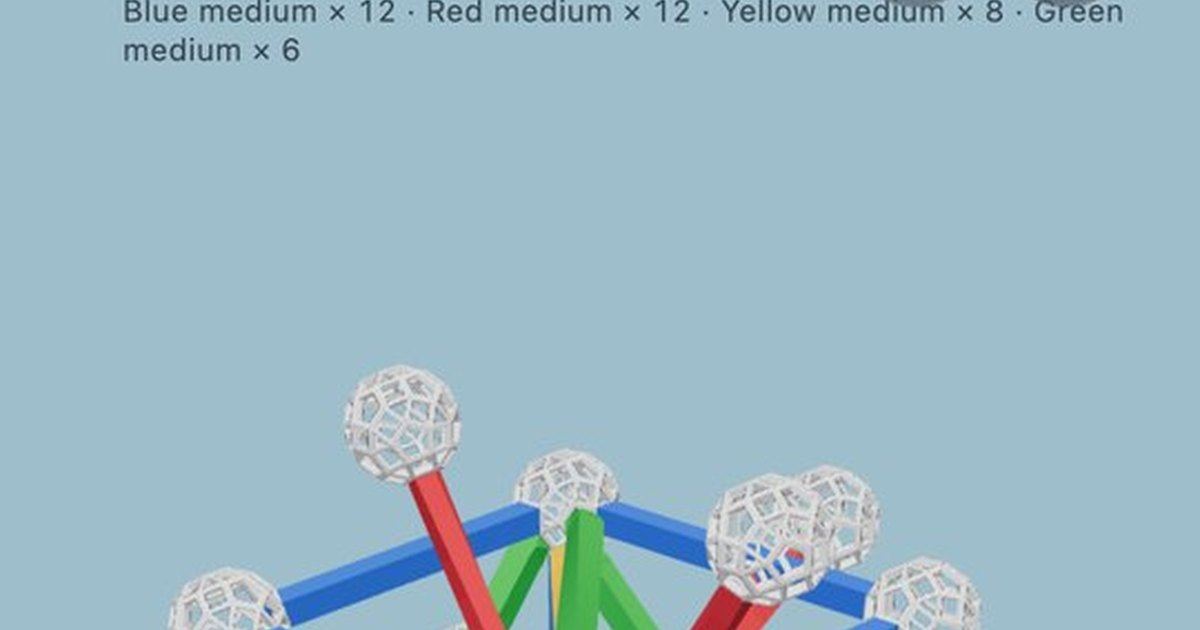
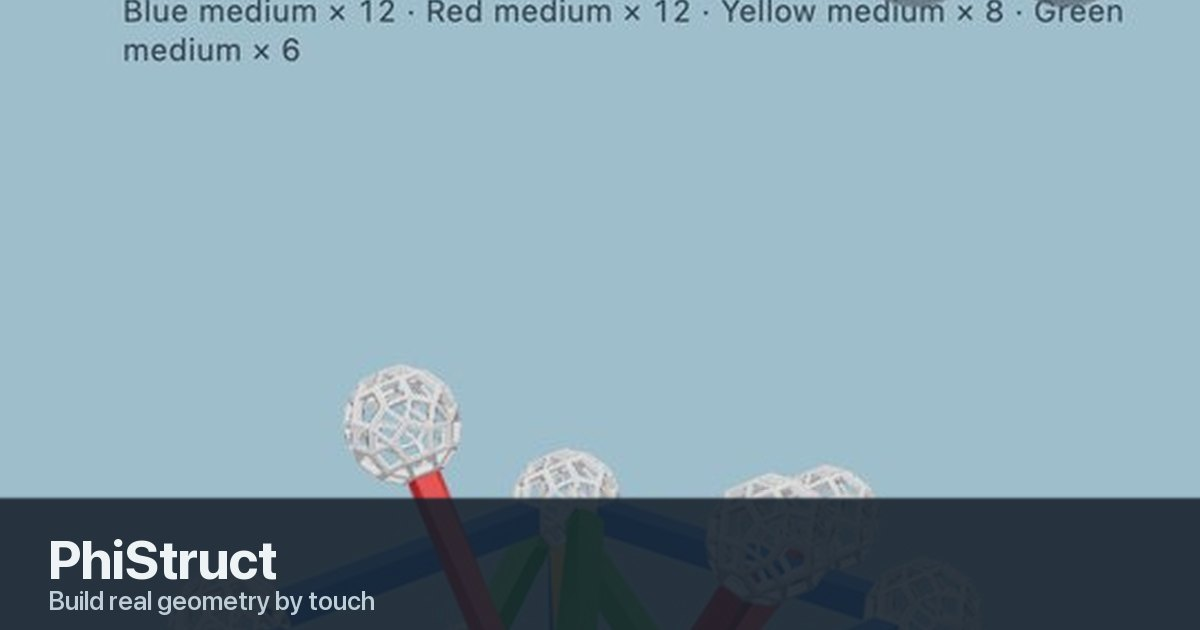
Add Umami hook, bake OG wordmark, and split app vs site privacy.
Leave the GitHub Pages host as-is until phistruct.app DNS exists; do not ship a CNAME yet.

Changed region(s): [[0.0, 0.7841, 1.0, 1.0]]

diff --git a/index.html b/index.html
@@ -4,7 +4,7 @@
 <meta charset="utf-8" />
 <meta name="viewport" content="width=device-width, initial-scale=1" />
 <title>PhiStruct — Build 3D Polyhedra by Touch on iPhone</title>
-<meta name="description" content="Tap a hole, place a strut. Collision-proof ball-and-strut polyhedra, 134 guided builds, AR at room scale, PNG/GLB/STL/vZome export. Offline, one-time purchase, no account." />
+<meta name="description" content="Tap a hole, place a strut. Collision-proof polyhedra, 134 guided builds, AR at room scale. Offline, one-time purchase, no account." />
 <meta name="theme-color" content="#9fbecb" />
 <link rel="canonical" href="https://sirouni.github.io/phistruct-site/" />
 
@@ -21,13 +21,17 @@
 <meta property="og:description" content="Collision-proof ball-and-strut polyhedra on iPhone. 134 guided builds, AR at room scale, STL export, fully offline." />
 <meta property="og:type" content="website" />
 <meta property="og:url" content="https://sirouni.github.io/phistruct-site/" />
-<meta property="og:image" content="https://sirouni.github.io/phistruct-site/og-image.jpg" />
+<meta property="og:image" content="https://sirouni.github.io/phistruct-site/og-image.jpg?v=2" />
 <meta property="og:image:width" content="1200" />
 <meta property="og:image:height" content="630" />
+<meta property="og:image:type" content="image/jpeg" />
+<meta property="og:image:alt" content="PhiStruct — build real geometry by touch. A ball-and-strut polyhedron with a parts list." />
 <meta name="twitter:card" content="summary_large_image" />
 <meta name="twitter:title" content="PhiStruct — Build real geometry by touch" />
 <meta name="twitter:description" content="Collision-proof ball-and-strut polyhedra on iPhone. 134 guided builds, AR at room scale, STL export, fully offline." />
-<meta name="twitter:image" content="https://sirouni.github.io/phistruct-site/og-image.jpg" />
+<meta name="twitter:image" content="https://sirouni.github.io/phistruct-site/og-image.jpg?v=2" />
+<meta name="twitter:image:alt" content="PhiStruct — build real geometry by touch. A ball-and-strut polyhedron with a parts list." />
+<script src="analytics.js" defer></script>
 
 <link rel="preload" as="image" href="screenshots-webp/03-ar.webp?v=2" imagesrcset="screenshots-webp/03-ar.webp?v=2" type="image/webp" />
 <link rel="stylesheet" href="style.css?v=8" />
@@ -43,7 +47,7 @@
       "applicationCategory": "UtilitiesApplication",
       "description": "Touch-first ball-and-strut geometry builder. Collision-proof, 134 guided polyhedra, AR at room scale, export PNG/GLB/STL/vZome. Fully offline, no account, one-time purchase.",
       "url": "https://sirouni.github.io/phistruct-site/",
-      "image": "https://sirouni.github.io/phistruct-site/og-image.jpg",
+      "image": "https://sirouni.github.io/phistruct-site/og-image.jpg?v=2",
       "offers": {
         "@type": "Offer",
         "price": "14.99",
@@ -101,7 +105,7 @@
   <nav class="nav">
     <a href="#how">How it works</a>
     <a href="#shots">Screens</a>
-    <a href="https://apps.apple.com/app/id6794185906" rel="noopener" class="nav-cta">App Store</a>
+    <a href="https://apps.apple.com/app/id6794185906" rel="noopener" class="nav-cta" data-umami-event="app-store" data-umami-event-placement="nav">App Store</a>
   </nav>
 </header>
 
@@ -123,7 +127,7 @@
         <li>One-time purchase</li>
       </ul>
       <p class="cta-row">
-        <a class="store-btn" href="https://apps.apple.com/app/id6794185906" rel="noopener">
+        <a class="store-btn" href="https://apps.apple.com/app/id6794185906" rel="noopener" data-umami-event="app-store" data-umami-event-placement="hero">
           <span class="store-btn-kicker">Download on the</span>
           <span class="store-btn-label">App Store</span>
         </a>
@@ -233,7 +237,7 @@
       <strong>Offline, one-time purchase, no account.</strong>
       <p>No ads, no subscriptions, no tracking. Your projects stay on your device.</p>
     </div>
-    <a class="store-btn store-btn-light" href="https://apps.apple.com/app/id6794185906" rel="noopener">
+    <a class="store-btn store-btn-light" href="https://apps.apple.com/app/id6794185906" rel="noopener" data-umami-event="app-store" data-umami-event-placement="footer">
       <span class="store-btn-kicker">Download on the</span>
       <span class="store-btn-label">App Store</span>
     </a>

diff --git a/privacy.html b/privacy.html
@@ -4,9 +4,14 @@
 <meta charset="utf-8" />
 <meta name="viewport" content="width=device-width, initial-scale=1" />
 <title>PhiStruct — Privacy Policy</title>
-<meta name="description" content="PhiStruct privacy policy: we collect nothing. Fully offline, no account, no analytics, no tracking." />
+<meta name="description" content="PhiStruct app collects nothing. The marketing site uses cookie-free Umami page counts. Fully offline app, no account, no tracking in the binary." />
 <meta name="theme-color" content="#9fbecb" />
+<link rel="canonical" href="https://sirouni.github.io/phistruct-site/privacy.html" />
+<meta property="og:title" content="PhiStruct — Privacy Policy" />
+<meta property="og:url" content="https://sirouni.github.io/phistruct-site/privacy.html" />
+<meta property="og:image" content="https://sirouni.github.io/phistruct-site/og-image.jpg?v=2" />
 <link rel="icon" href="favicon.ico" sizes="any" />
+<script src="analytics.js" defer></script>
 <link rel="icon" type="image/png" sizes="32x32" href="favicon-32.png" />
 <link rel="apple-touch-icon" href="apple-touch-icon.png" />
 <link rel="preconnect" href="https://fonts.googleapis.com" />
@@ -22,15 +27,16 @@
   </header>
 
   <h1>Privacy Policy</h1>
-  <p class="muted">Last updated: August 22, 2026</p>
+  <p class="muted">Last updated: September 1, 2026</p>
 
   <p>
-    PhiStruct is a fully offline app. This policy is short because there
-    isn't much to say: <strong>we do not collect, store, or transmit any of
-    your personal data</strong>, on any server, for any purpose.
+    PhiStruct the <strong>app</strong> is fully offline. The app does not
+    collect, store, or transmit any of your personal data on any server,
+    for any purpose. This page also covers the marketing website, which is
+    separate from the app.
   </p>
 
-  <h2>What we collect</h2>
+  <h2>The app — what we collect</h2>
   <p>Nothing. Specifically:</p>
   <ul>
     <li>No account or sign-in is required or offered.</li>
@@ -64,8 +70,28 @@
     to protect.
   </p>
 
+  <h2>This website</h2>
+  <p>
+    The marketing site (these pages) uses
+    <a href="https://umami.is/docs/cloud">Umami Cloud</a>, a cookie-free
+    analytics service, to count page views and App Store button clicks.
+    Umami does not set advertising cookies, does not fingerprint you for
+    ads, and is not loaded inside the PhiStruct app. We send the page URL,
+    referrer, browser type, and which download button was clicked so we
+    can tell whether a Discord post or a Reddit thread is doing anything.
+  </p>
+  <p>
+    You can use the app without ever visiting this website. Turning on a
+    browser's tracking-prevention or blocking
+    <code>cloud.umami.is</code> has no effect on the app.
+  </p>
+
   <h2>Third parties</h2>
-  <p>We do not share data with third parties, because we do not collect any.</p>
+  <p>
+    The app does not share data with third parties, because it does not
+    collect any. The marketing site sends the counts above to Umami
+    Software, Inc., which hosts Umami Cloud.
+  </p>
 
   <h2>Changes to this policy</h2>
   <p>

diff --git a/support.html b/support.html
@@ -6,7 +6,12 @@
 <title>PhiStruct — Support</title>
 <meta name="description" content="PhiStruct support: getting started, guided builds, saving and exporting, and how to report a bug." />
 <meta name="theme-color" content="#9fbecb" />
+<link rel="canonical" href="https://sirouni.github.io/phistruct-site/support.html" />
+<meta property="og:title" content="PhiStruct — Support" />
+<meta property="og:url" content="https://sirouni.github.io/phistruct-site/support.html" />
+<meta property="og:image" content="https://sirouni.github.io/phistruct-site/og-image.jpg?v=2" />
 <link rel="icon" href="favicon.ico" sizes="any" />
+<script src="analytics.js" defer></script>
 <link rel="icon" type="image/png" sizes="32x32" href="favicon-32.png" />
 <link rel="apple-touch-icon" href="apple-touch-icon.png" />
 <link rel="preconnect" href="https://fonts.googleapis.com" />

diff --git a/analytics.js b/analytics.js
@@ -1,0 +1,26 @@
+/* PhiStruct marketing site only — never ship this in the iOS/Android app.
+ *
+ * Umami Cloud, cookie-free. Pageviews plus App Store CTA clicks
+ * (`data-umami-event="app-store"`). No advertising, no cross-site id.
+ *
+ * After creating the site at https://cloud.umami.is (Hobby is enough),
+ * paste the Website ID below and redeploy.
+ */
+window.PHI_ANALYTICS = {
+  umamiWebsiteId: "",
+};
+
+(function () {
+  var cfg = window.PHI_ANALYTICS || {};
+  var id = cfg.umamiWebsiteId;
+  if (!id) return;
+  var s = document.createElement("script");
+  s.defer = true;
+  s.src = "https://cloud.umami.is/script.js";
+  s.setAttribute("data-website-id", id);
+  s.setAttribute(
+    "data-domains",
+    "phistruct.app,www.phistruct.app,sirouni.github.io"
+  );
+  document.head.appendChild(s);
+})();
